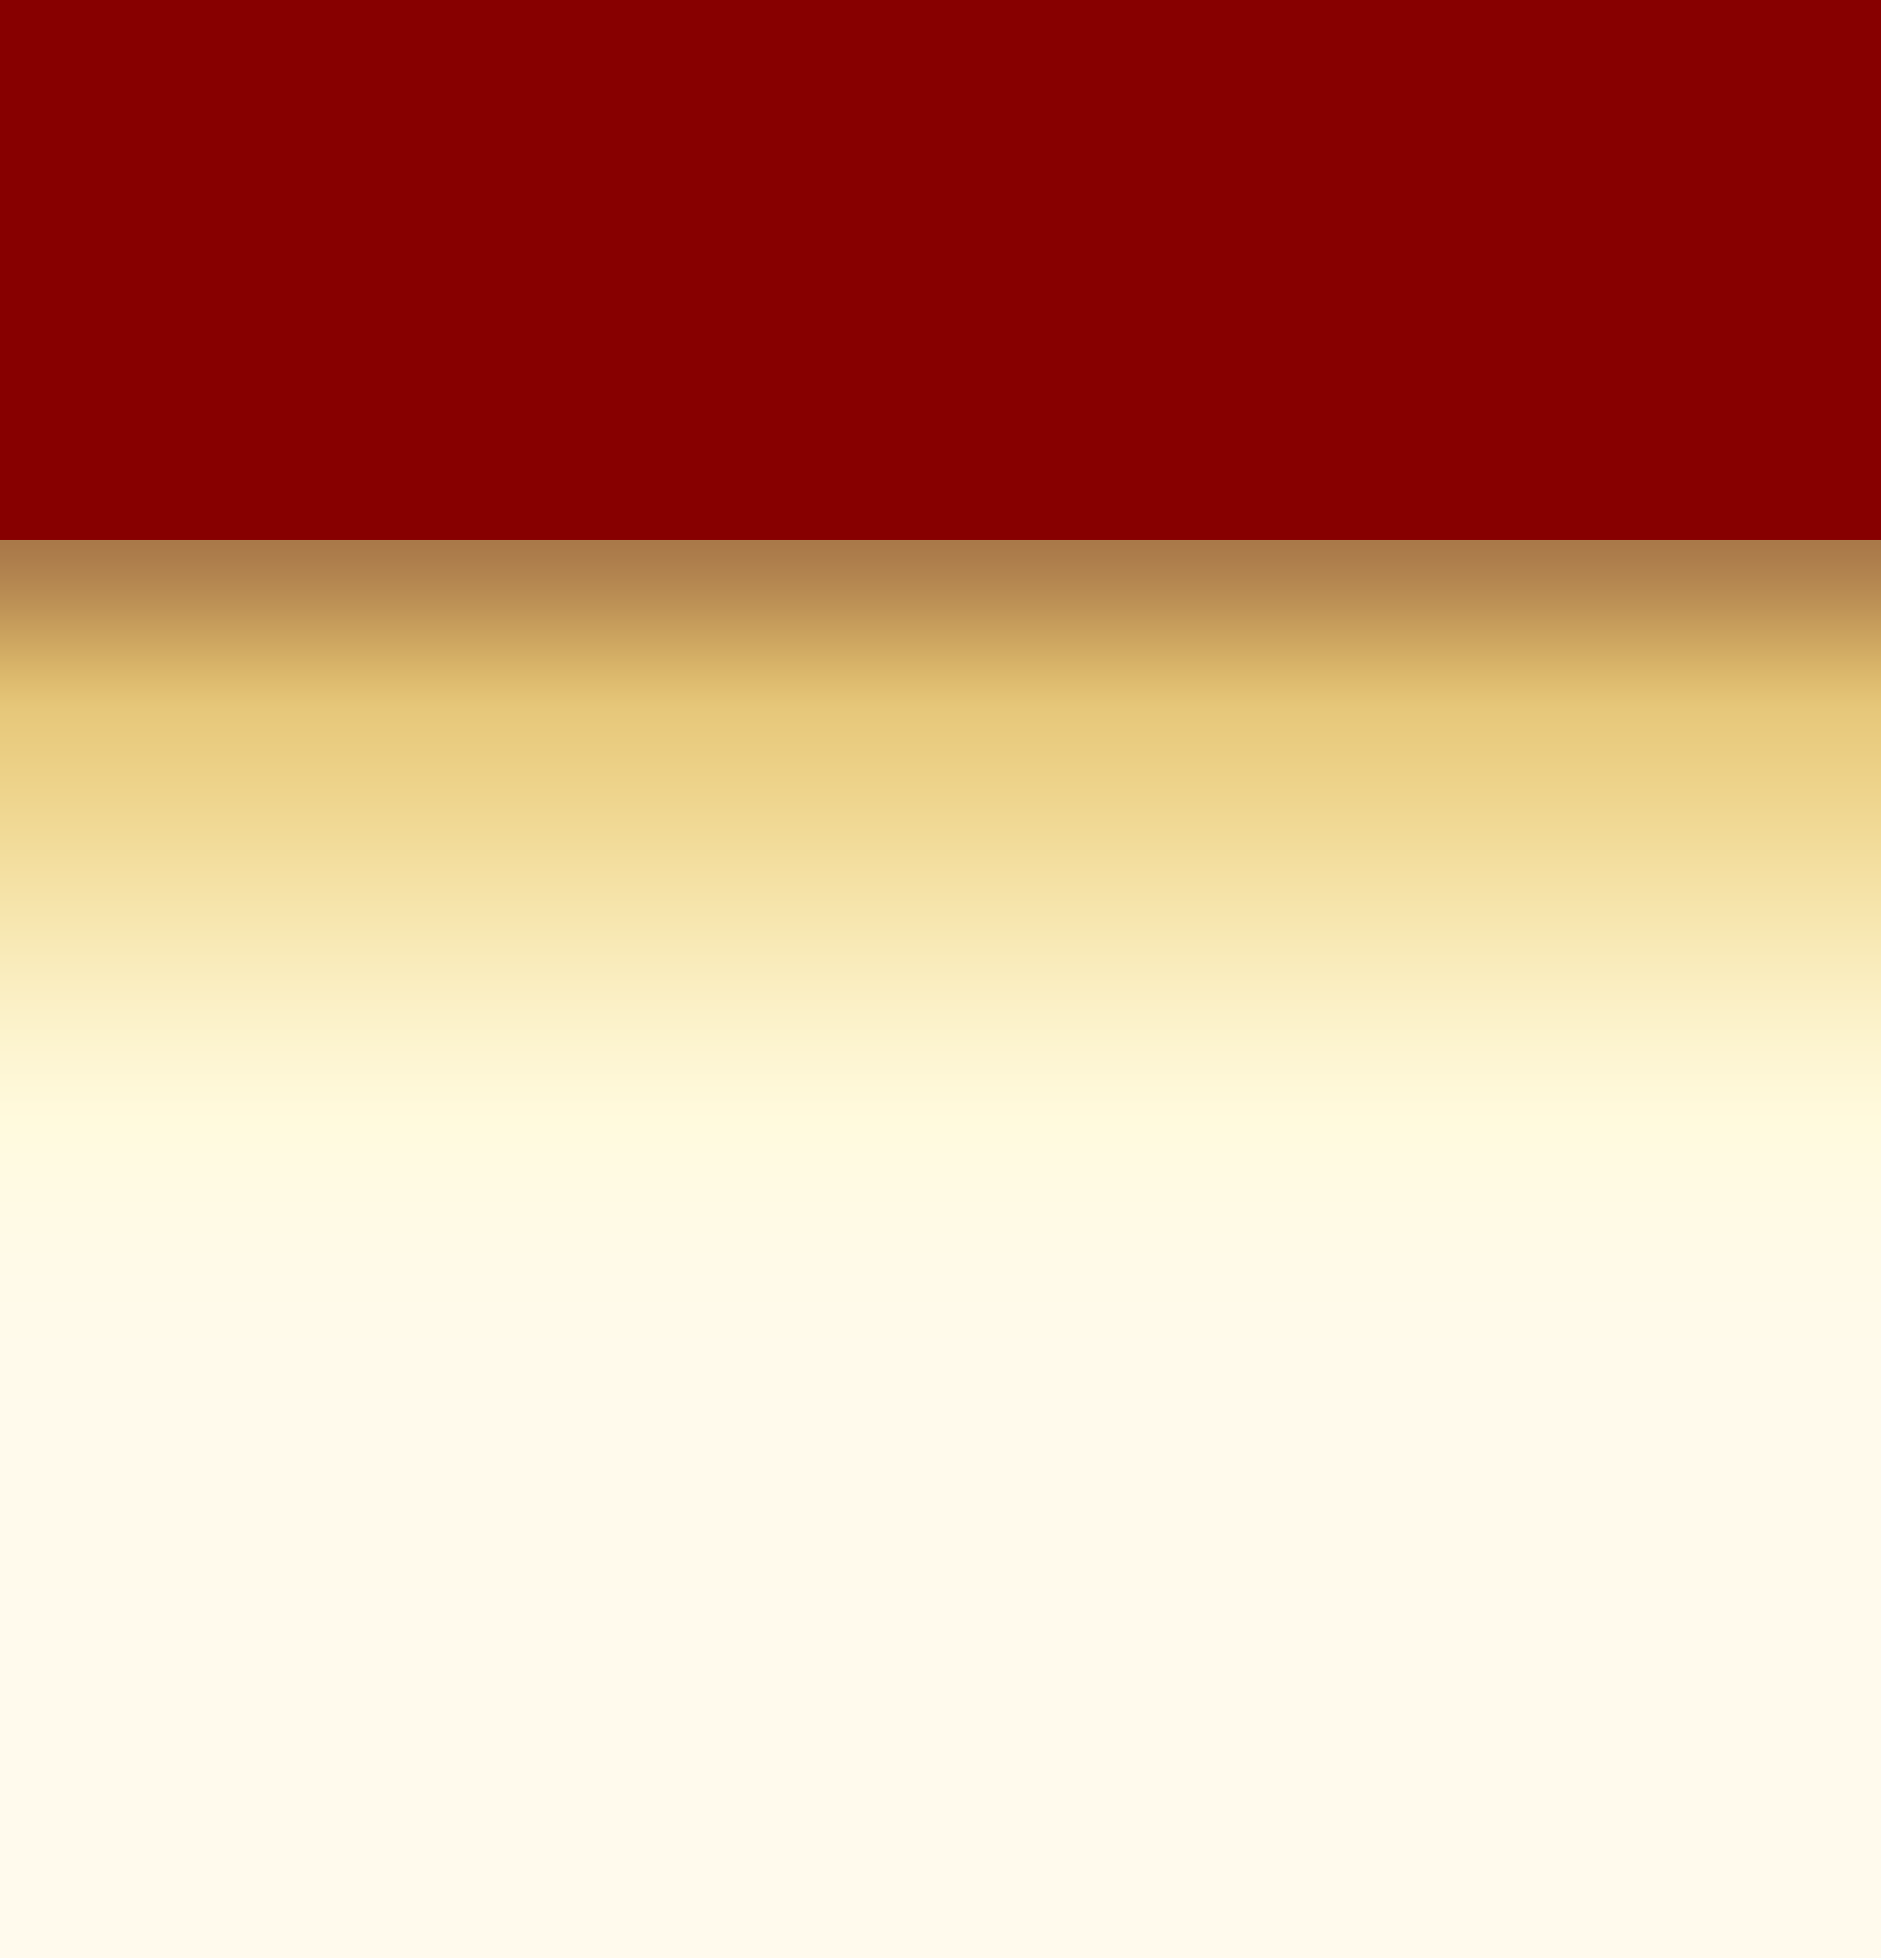
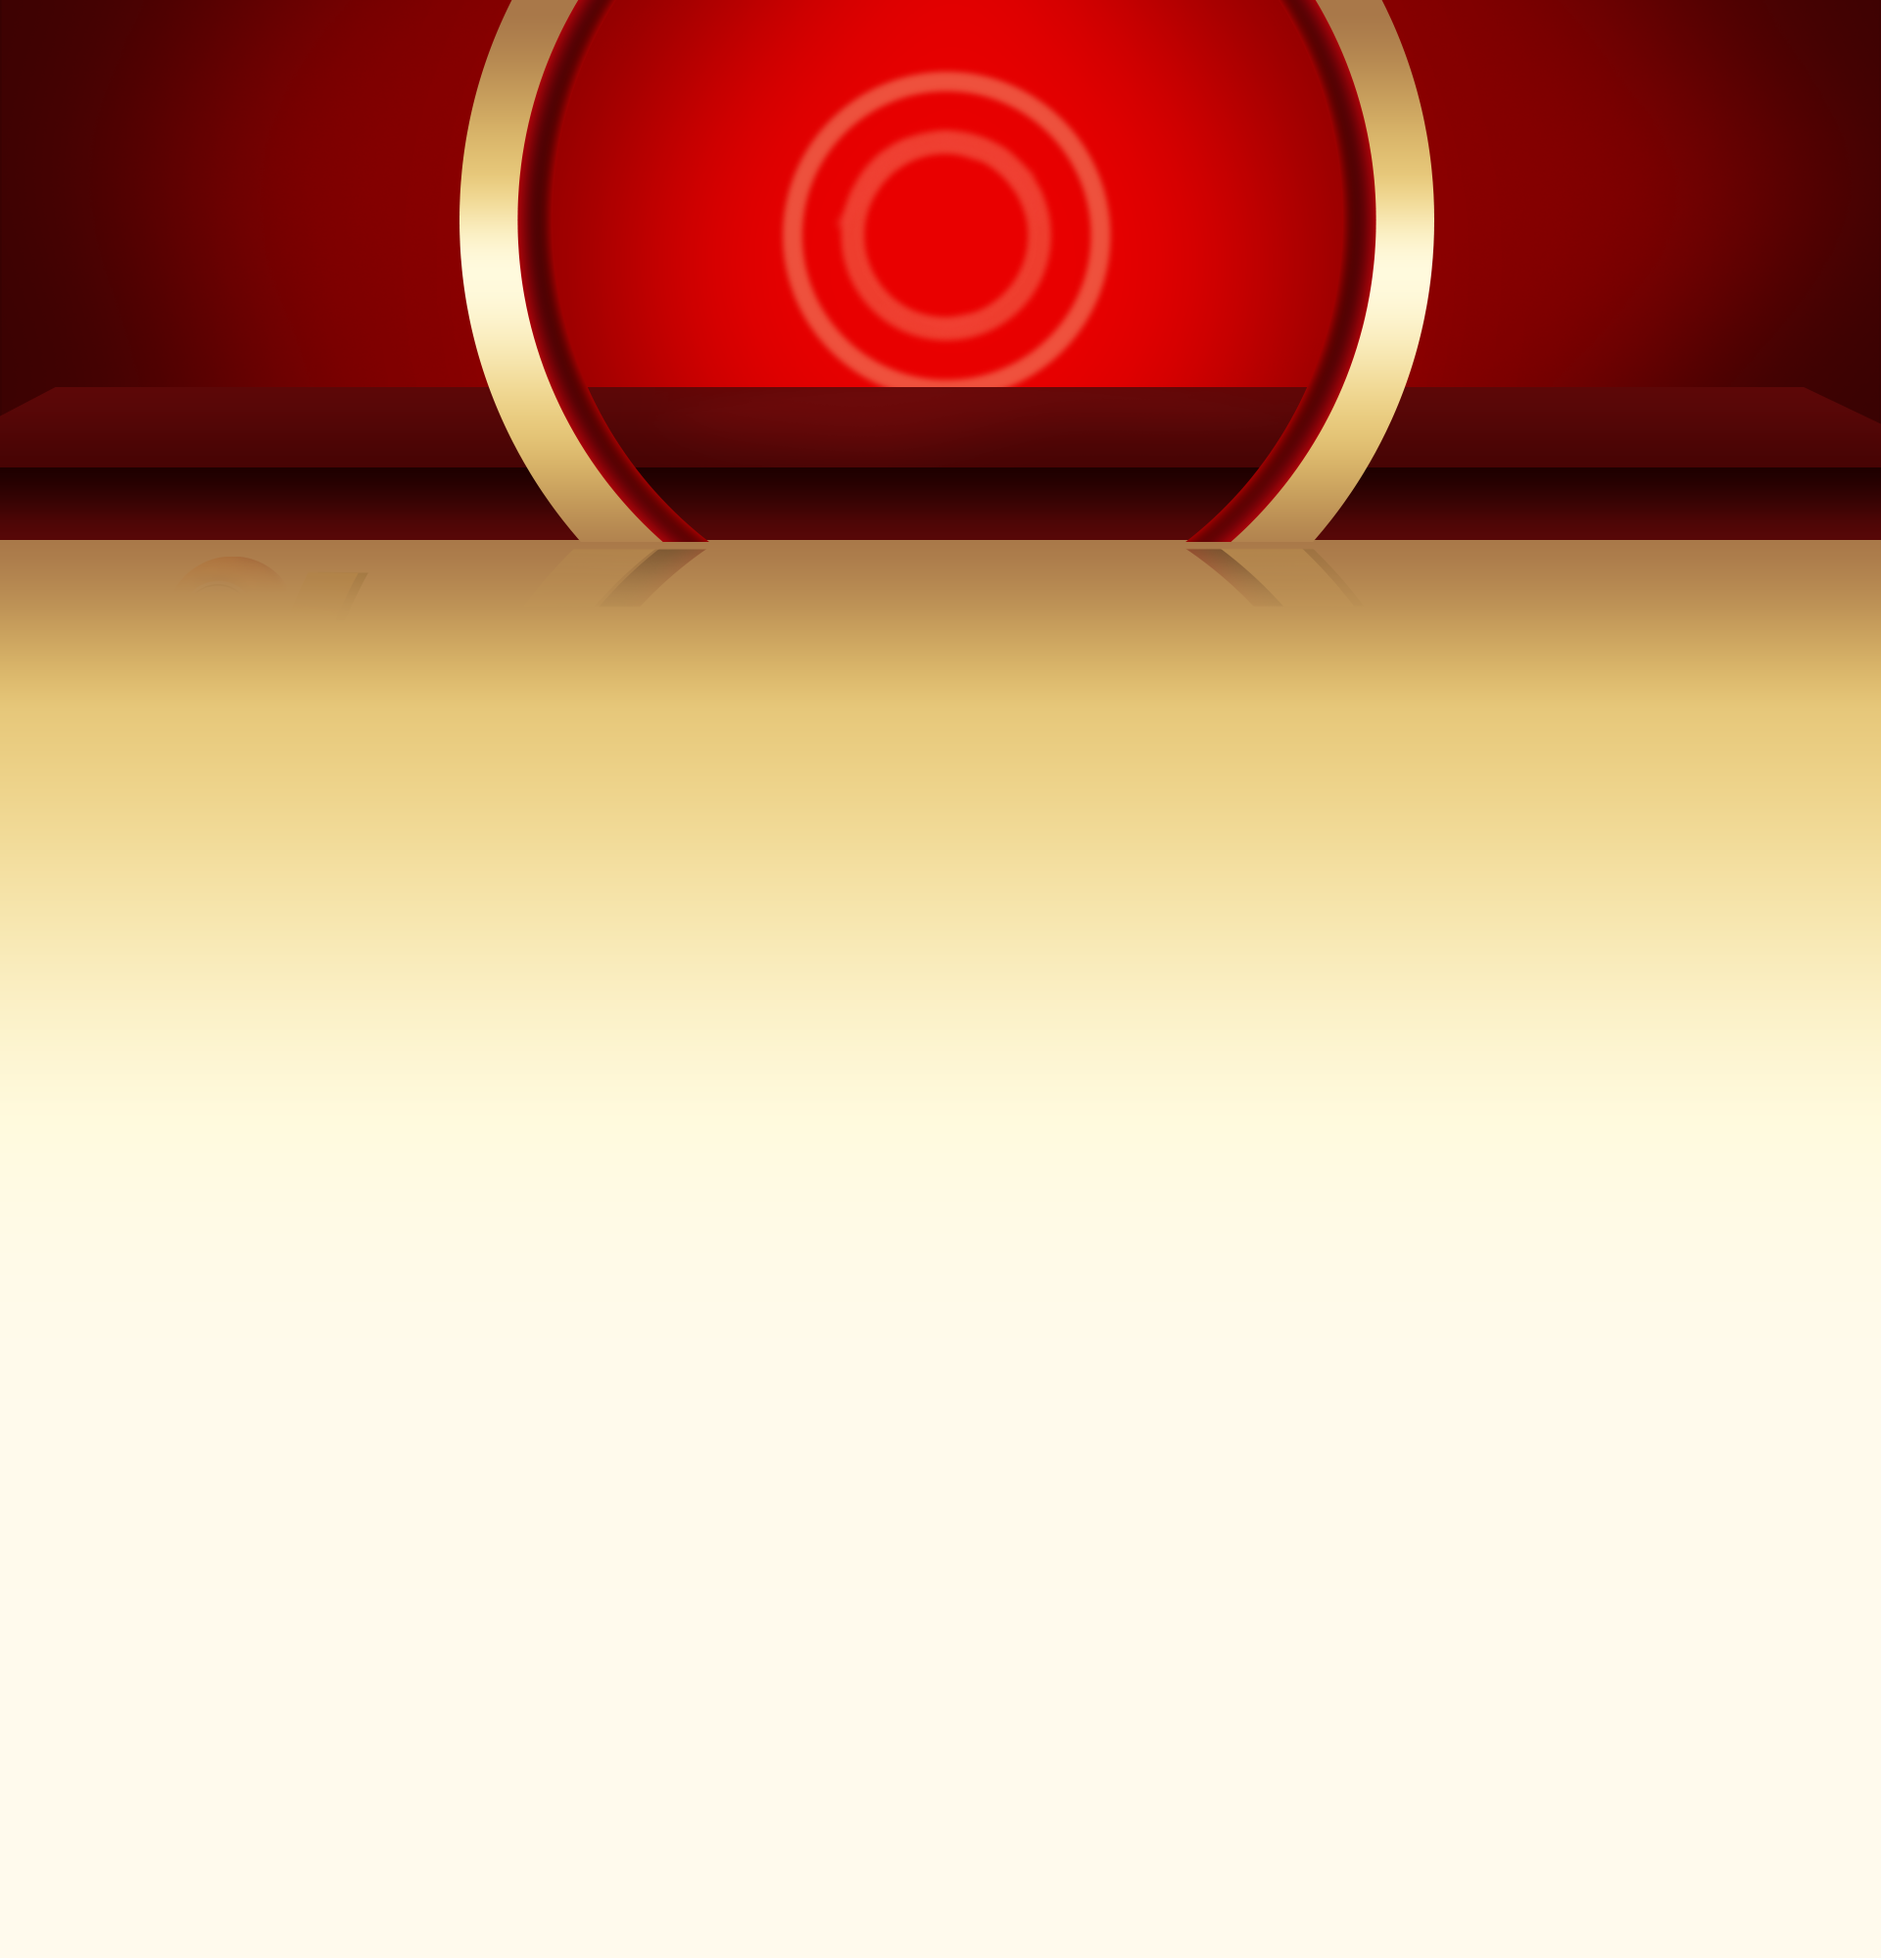
112-1127-4-N

Changed region(s): [[0.0, 0.0, 1.0, 0.3103]]

diff --git a/css/style.css b/css/style.css
@@ -105,6 +105,16 @@ main {
   background-size: contain;
 }
 
+.info_BG .imgBox .star {
+  background: url("../images/star.gif") no-repeat center;
+  background-size: contain;
+}
+
+.info_BG .imgBox .coin {
+  background: url("../images/coin.gif") no-repeat center;
+  background-size: contain;
+}
+
 .info_BG .imgBox .scale {
   background: url("../images/scale.png") no-repeat center;
   background-size: contain;
@@ -130,7 +140,7 @@ main {
 
 .info_BG {
   background: url("../images/info_BG.png") no-repeat top center;
-  background-size: cover;
+  background-size: contain;
 }
 
 .info_BG .topStar {
@@ -282,7 +292,7 @@ html body header.infoHeader {
 }
 html body header.infoHeader .topBar {
   width: 100%;
-  height: 41px;
+  height: 42px;
   position: absolute;
   top: 0;
   left: 0;
@@ -307,6 +317,10 @@ html body header.infoHeader .logoBox {
   position: relative;
 }
 html body header.infoHeader .logoBox img {
+  width: 140px;
+  height: 32px;
+  -o-object-fit: contain;
+     object-fit: contain;
   cursor: pointer;
 }
 html body .home {
@@ -2702,6 +2716,20 @@ html body .info_BG .imgBox .title {
   position: absolute;
   top: 100px;
   left: 236px;
+}
+html body .info_BG .imgBox .star {
+  width: 505px;
+  height: 100px;
+  position: absolute;
+  top: 75px;
+  left: 210px;
+}
+html body .info_BG .imgBox .coin {
+  width: 92px;
+  height: 91px;
+  position: absolute;
+  top: 196px;
+  left: 52px;
 }
 html body .info_BG .imgBox ul {
   width: 100%;

diff --git a/scss/_imgStyle.scss b/scss/_imgStyle.scss
@@ -20,6 +20,14 @@
     background: url('../images/title.png') no-repeat center;
     background-size: contain;
 }
+.info_BG .imgBox .star {
+    background: url('../images/star.gif') no-repeat center;
+    background-size: contain;
+}
+.info_BG .imgBox .coin {
+    background: url('../images/coin.gif') no-repeat center;
+    background-size: contain;
+}
 .info_BG .imgBox .scale {
     background: url('../images/scale.png') no-repeat center;
     background-size: contain;
@@ -42,7 +50,7 @@
 //info
 .info_BG {
     background: url('../images/info_BG.png') no-repeat top center;
-    background-size: cover;
+    background-size: contain;
 }
 .info_BG .topStar {
     background: url('../images/top_bg.png') no-repeat top center;

diff --git a/scss/_info.scss b/scss/_info.scss
@@ -699,6 +699,22 @@
             top: 100px;
             left: 236px;
         }
+        .star {
+            width: 505px;
+            height: 100px;
+            position: absolute;
+            top: 75px;
+            left: 210px;
+        }
+
+        .coin {
+            width: 92px;
+            height: 91px;
+            position: absolute;
+            top: 196px;
+            left: 52px;
+        }
+
         ul {
           width: 100%;
           height: auto;

diff --git a/scss/_header.scss b/scss/_header.scss
@@ -54,7 +54,7 @@ header {
 
         .topBar {
             width: 100%;
-            height: 41px;
+            height: 42px;
             position: absolute;
             top: 0;
             left: 0;
@@ -73,6 +73,9 @@ header {
             position: relative;
 
             img {
+                width: 140px;
+                height: 32px;
+                object-fit: contain;
                 cursor: pointer;
             }
         }

diff --git a/html/information.html b/html/information.html
@@ -791,6 +791,8 @@
         <!--獎池圖-->
         <div class="imgBox">
             <div class="title"></div>
+            <div class="star"></div>
+            <div class="coin"></div>
             <ul>
                 <li class="num_9 anime_1"></li>
                 <li class="num_8"></li>
